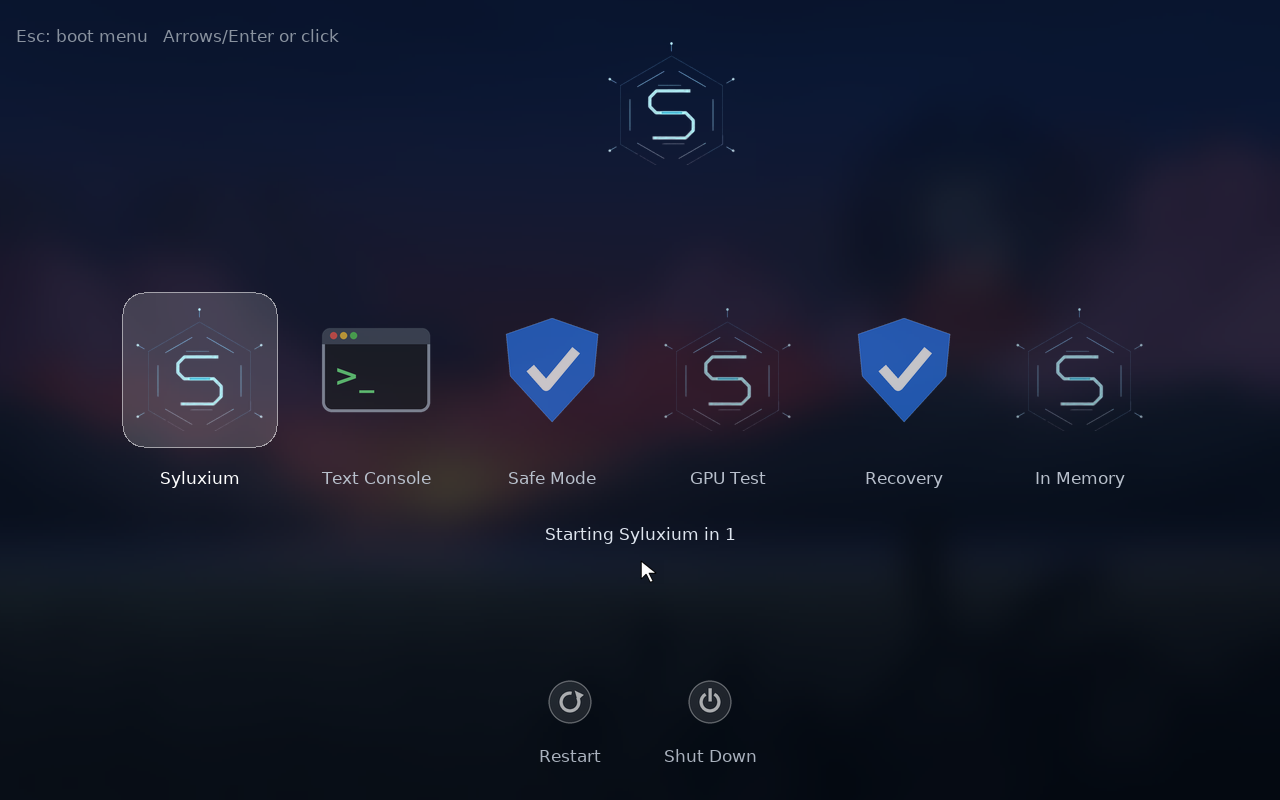
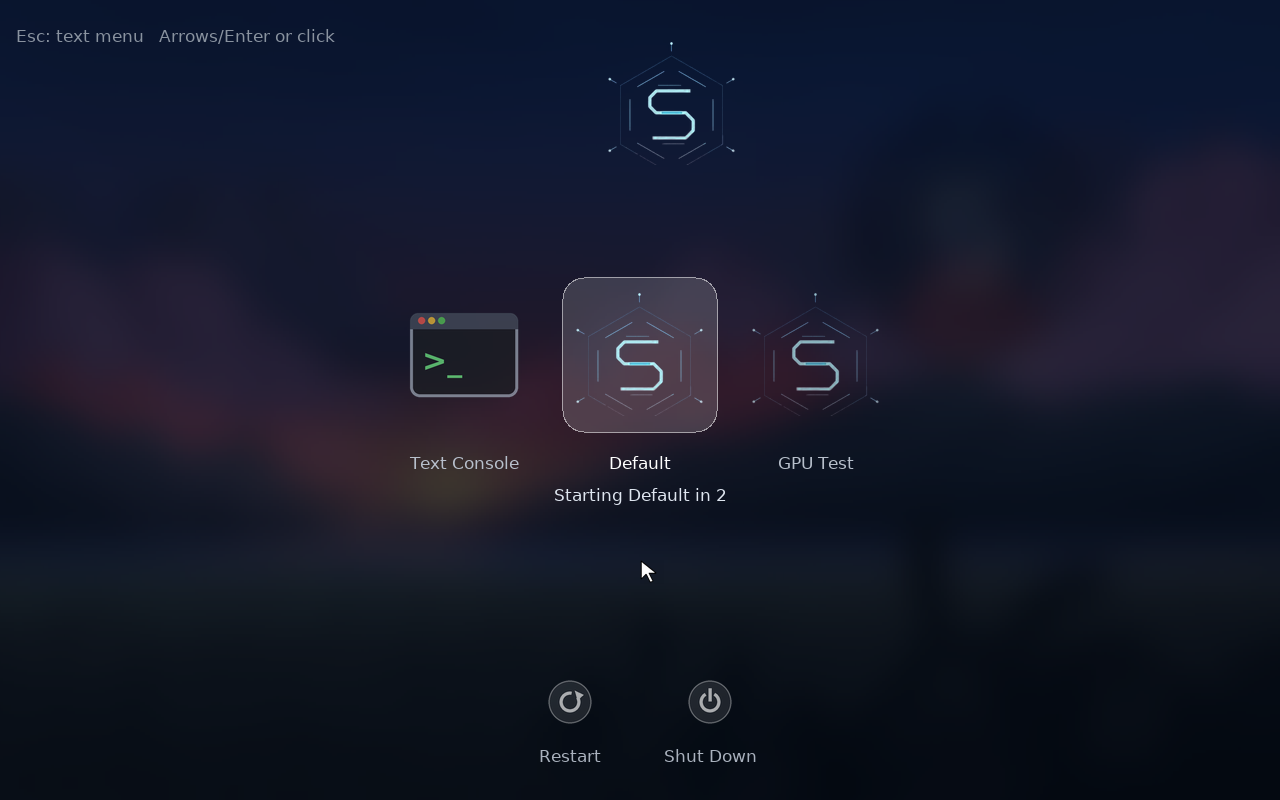
README: the Xfce desktop in Dusk, the native Wayland shell preview, the new apps and the three-entry boot picker; new screenshots

diff --git a/README.md b/README.md
@@ -3,7 +3,7 @@
 **A from-scratch x86_64 operating system** written in C, C++20 and Python: its own monolithic kernel,
 booted by [Limine](https://github.com/limine-bootloader/limine), aided with AI for a more efficient workflow.
 
-Syluxium runs **Linux applications out of the box**: Firefox, Wine, the Trinity desktop, CUPS, apt and the whole
+Syluxium runs **Linux applications out of the box**: Firefox, Wine, the Xfce desktop, CUPS, apt and the whole
 Debian package archive, unmodified, on top of a kernel written from scratch. **Android app support**
 (binder IPC and container support in the kernel, for Waydroid) is being built now.
 
@@ -12,8 +12,11 @@ Highlights:
   with IPv6, and the Linux system-call interface, so real Linux binaries run as they are.
 - **Real hardware drivers**: USB plug and play, NVMe/SATA, HD audio, touchpads, Wi-Fi with WPA2, and
   Linux 6.12's GPU drivers (Intel, AMD, NVIDIA) through a driver compatibility layer.
-- **A complete desktop** in Syluxium's own *Dusk* look: see-through taskbar, launcher with search,
-  rounded windows, a polished login screen, a graphical boot picker and splash.
+- **A complete desktop** in Syluxium's own *Dusk* look, built on Xfce: a see-through glass taskbar, a
+  start menu with search, rounded windows with real transparency and shadows, adjustable live from
+  Personalize, plus a polished login screen, a graphical boot picker and splash.
+- **Native Wayland too**: a Syluxium shell on the Wayfire compositor (glass panel, blur, Xwayland for
+  X11 programs) is in preview alongside the Xfce desktop.
 - **Ready to use**: a step-by-step installer (alongside Windows too), App Store and updates through apt,
   Device Manager, Disk Management, recovery mode, and Windows programs through Wine.
 - **Runs from a USB stick**: boots in seconds straight from the stick, and collects boot logs from
@@ -29,8 +32,10 @@ From power-on to the desktop, in the order a computer shows them:
 | ![Boot picker](docs/screenshots/1-boot-picker.png) | ![Boot splash](docs/screenshots/2-boot-splash.png) |
 | **3. Verbose boot** (press Esc during the splash) | **4. Login screen** |
 | ![Verbose boot](docs/screenshots/3-verbose-boot.png) | ![Login screen](docs/screenshots/4-login.png) |
-| **5. Desktop** (Dusk theme) | **6. Installer**: installation type, next to Windows |
+| **5. Desktop** (Dusk theme on Xfce) | **6. Installer**: installation type, next to Windows |
 | ![Desktop](docs/screenshots/5-desktop.png) | ![Installer](docs/screenshots/6-installer.png) |
+| **7. Start menu**: favourites, categories, search | **8. Terminal** in Dusk colours |
+| ![Start menu](docs/screenshots/7-start-menu.png) | ![Terminal](docs/screenshots/8-terminal.png) |
 
 ## Made On Linux (Arch / CachyOS) 
 
@@ -67,9 +72,9 @@ partitions: the EFI partition (picker, Limine, kernel), SYLUXLOGS (one boot-log 
 stick collects logs from several machines) and SYLUXLIVE (the system itself, ext4, read as needed:
 boots don't wait for a big RAM disk to load). The "In Memory" entry loads everything into RAM instead.
 
-Booting: on UEFI machines a graphical **boot picker** comes first (large icons for Syluxium,
-Text Console, Safe Mode and any Windows/macOS/Linux found on the disks; arrow keys, Enter,
-mouse; Esc = Limine's text menu), then the **boot splash** (logo, progress bar and the boot
+Booting: on UEFI machines a graphical **boot picker** comes first (large icons for Text Console,
+Default and GPU Test, plus any Windows/macOS/Linux found on the disks; arrow keys, Enter, mouse;
+**Esc** lists every entry as text: safe mode, recovery, the Wayland shell, in memory), then the **boot splash** (logo, progress bar and the boot
 stage) until the login screen. Press **Esc** during the splash for the verbose boot log. A
 desktop that freezes while the kernel still runs: **Alt+PrintScreen+W** writes every thread's
 state into the boot log on the stick. Boot options (Limine entry,
@@ -179,25 +184,29 @@ Legend: ✅ done · 🟡 partly done · ⬜ to do
 - 🟡 System-call coverage (grows with every phase)
 
 **Desktop** (Syluxium's own *Dusk* look: deep navy, the logo's cyan, glass panels)
-- ✅ Desktop: Trinity (TDE) on Xorg with the Dusk theme (original artwork): see-through taskbar
-     (transparency adjustable), hex-logo launcher with search, rounded window frames, Dusk login
-     screen and splash; keyboard shortcuts (Win, Win+E/R/D/L, Ctrl+Alt+Del)
-- ⬜ Syluxium shell on Wayland (compositor with real blur, transparency and rounded corners; X11
-     apps through Xwayland; Android windows) - next
+- ✅ Desktop: Xfce on Xorg in the Dusk theme (original artwork): Dusk window frames with rounded
+     corners, compositor transparency and shadows, glass taskbar (transparency adjustable) with the
+     hex-logo start menu, pinned apps, window list, tray and clock; Dusk login screen and splash;
+     keyboard shortcuts (Win, Win+E/R/D, Ctrl+Esc, Ctrl+Shift+Esc). Trinity stays available as
+     "Syluxium Classic" in the login screen
+- 🟡 Syluxium shell on native Wayland (Wayfire compositor: glass panel, blur with a GPU driver,
+     X11 apps through Xwayland; Android windows next): preview boot entries, rounded corners to do
 - ✅ Right-click menus: Extract Here / Extract All, Send To compressed folder, Change Icon
-- ✅ File manager: Konqueror with the Address bar, archives extracted and created
+- ✅ File manager: Thunar in Dusk (trash, drives, archives extracted and created)
 - 🟡 Display settings: resolution and refresh rate change live (with a 15 s undo); multi-monitor to do
-- 🟡 Personalize: themes, colors, wallpapers, icons (TDE Appearance & Themes), Dusk icon set
-- 🟡 Control Panel: TDE Control Center with plain category names; restyle with the new shell
+- ✅ Personalize: taskbar and window transparency, shadows, accent colour (applied live), wallpaper;
+     works in both the Xfce desktop and the Wayland shell; Dusk icon set
+- 🟡 Control Panel: Xfce Settings Manager in Dusk; our own Control Panel to come
 - ✅ Task Manager (Ctrl+Alt+Del / Ctrl+Shift+Esc): Applications (End Task, Switch To), Processes
      (End Process, priority), Performance and Networking graphs
 - ✅ System page: Syluxium version, processor, memory, graphics, storage
 - ✅ Device Manager: every device by category, driver and status, problem devices flagged
 - ✅ Computer Management (Event Viewer, Services, Local Users, Device Manager, Disk Management)
      and Disk Management with partitioning and formatting (GParted)
-- ✅ Accessories: Files (Konqueror), Media Player (Kaffeine), E-mail (KMail), Notepad (Wine), WordPad
-     (AbiWord: .rtf, .doc, .docx, .odt), Paint (KolourPaint), Calculator (KCalc), Character Map
-     (KCharSelect), Snipping Tool (KSnapshot: region, window or full screen; save or copy), Dusk icons
+- ✅ Accessories (GTK, in Dusk): Files (Thunar), Terminal (xfce4-terminal), Code Editor (Mousepad),
+     WordPad (AbiWord: .rtf, .doc, .docx, .odt), Paint (Drawing), Calculator (galculator), Character
+     Map (gucharmap), Snipping Tool (xfce4-screenshooter), Notepad (Wine); Media Player (Kaffeine) and
+     E-mail (KMail) from the classic desktop for now; Dusk icons
 - ✅ Magnifier, On-Screen Keyboard (KMag, KVkbd)
 - 🟡 Networking UI: Wi-Fi chooser by the clock; Network Connections (every adapter's status, IPv4/IPv6
      addresses, gateway, DNS, MAC, link speed; DHCP or static address; enable/disable); firewall
@@ -224,7 +233,7 @@ Legend: ✅ done · 🟡 partly done · ⬜ to do
 - 🟡 Security: NX, kernel W^X, guard pages, per-user permissions done; ASLR, SMEP/SMAP to do
 - 🟡 Power management: power off / restart, power button, battery icon, lid switch, idle CPU states,
      CPU frequency scaling (AMD); sleep (S3) to do
-- ✅ Updates (Syluxium Update: Debian and Trinity through apt) and a Recovery boot entry
+- ✅ Updates (Syluxium Update: Debian packages through apt) and a Recovery boot entry
      (repair disks and packages, reset settings or passwords, root prompt)
 
 Tally: 48 done · 12 partly done · 2 to do.
